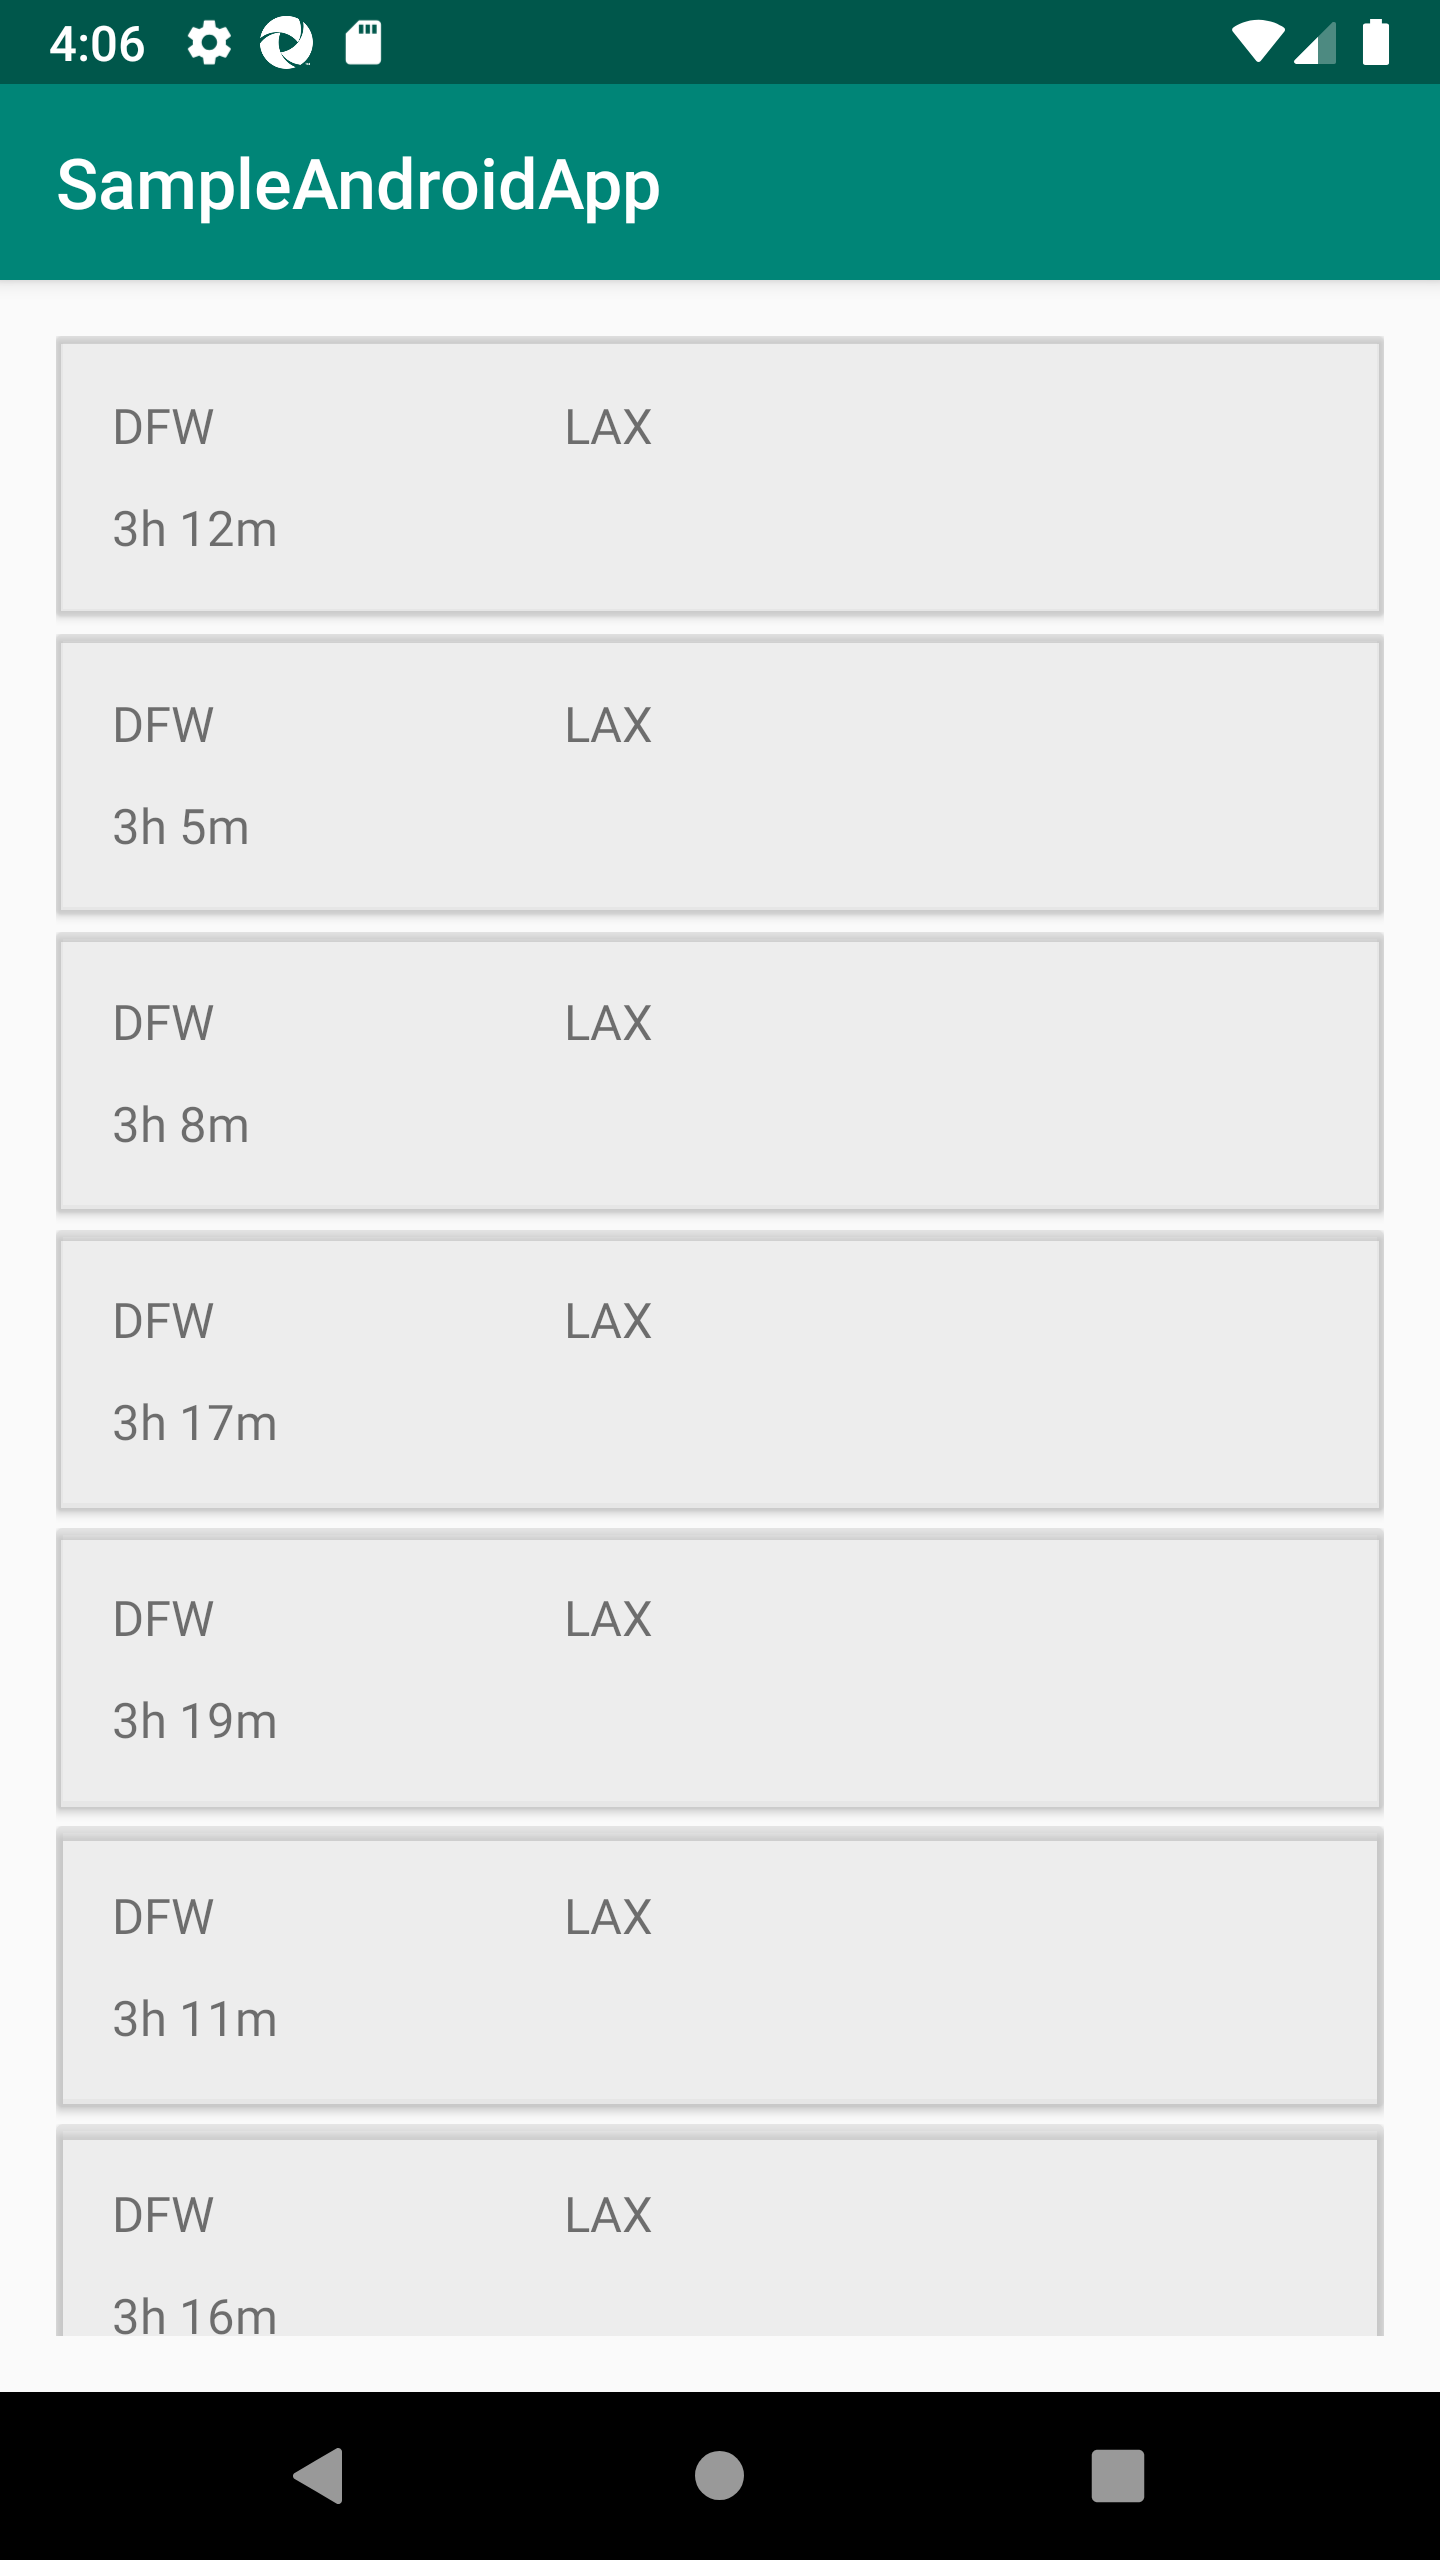
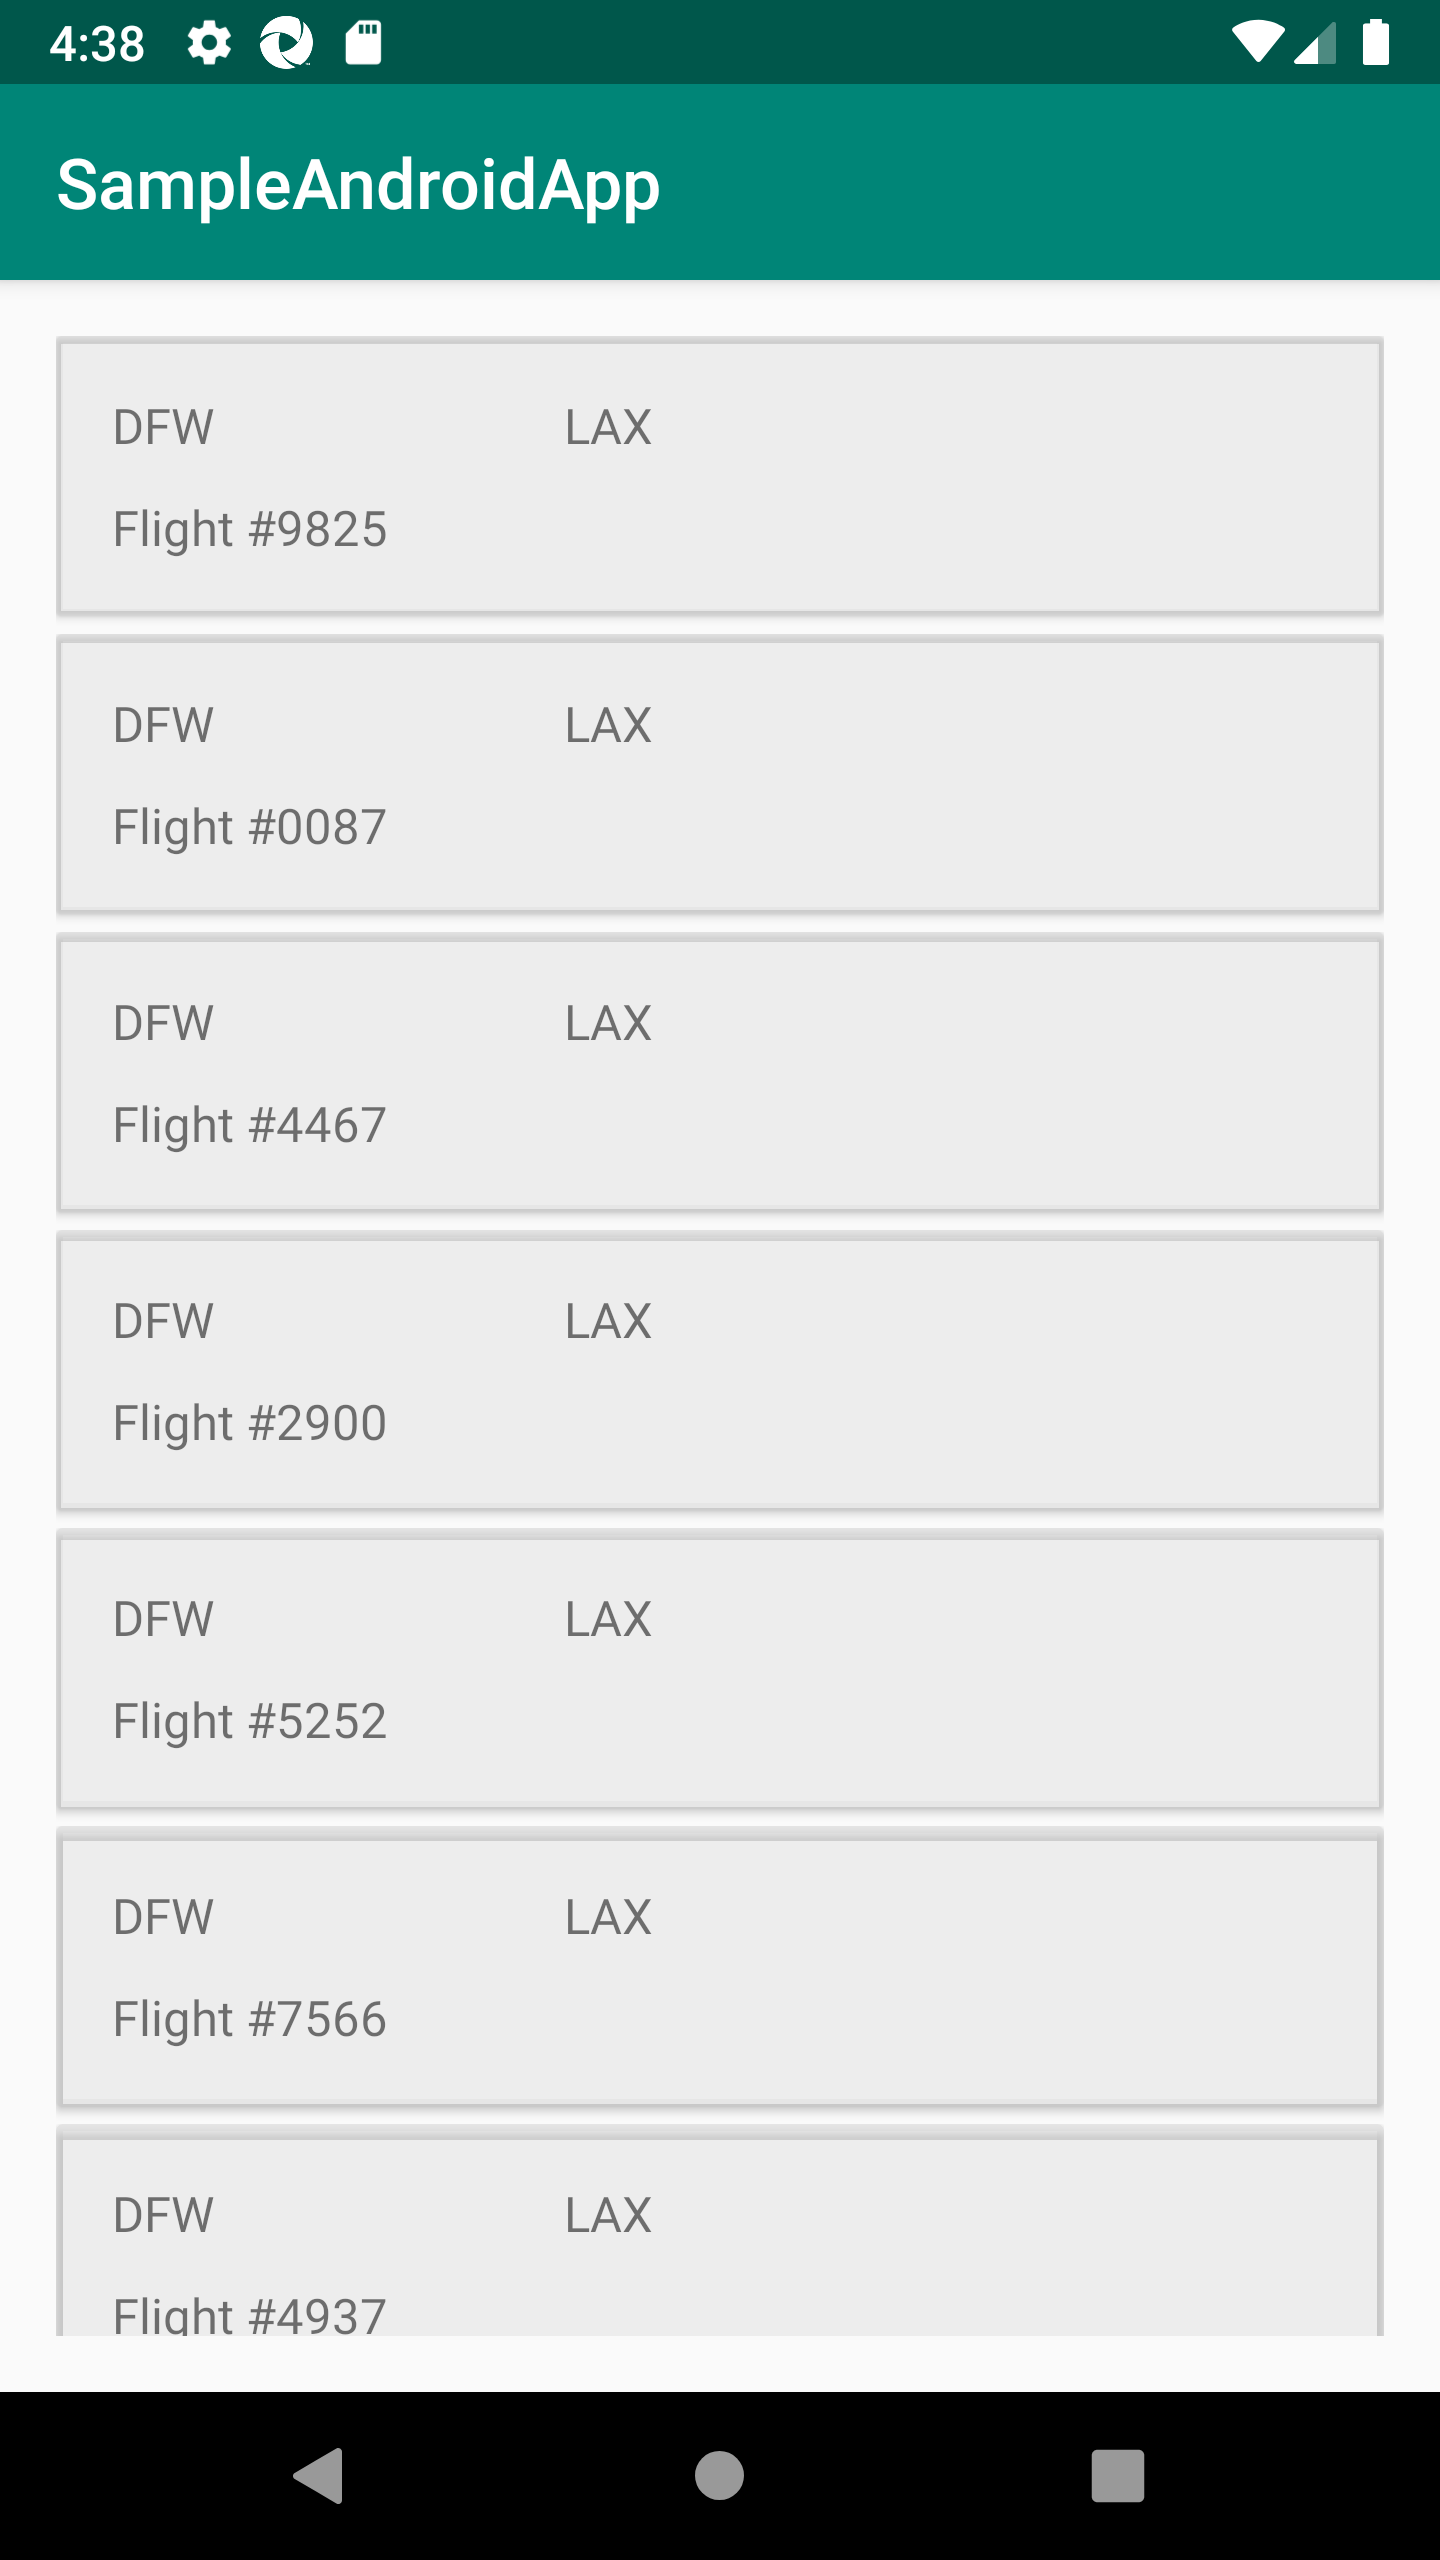
Android updates

diff --git a/flight-search-android/SampleAndroidApp/app/src/main/java/com/android/sampleandroidapp/FlightAdapter.java b/flight-search-android/SampleAndroidApp/app/src/main/java/com/android/sampleandroidapp/FlightAdapter.java
@@ -34,7 +34,7 @@ class FlightAdapter extends RecyclerView.Adapter<FlightAdapter.FlightViewHolder>
 
         holder.origin_tv.setText(flight.getOrigin().getCode());
         holder.destination_tv.setText(flight.getDestination().getCode());
-        holder.duration_tv.setText(flight.getDuration().getLocale());
+        holder.flight_number_tv.setText("Flight #" + flight.getFlightNumber());
     }
 
     @Override
@@ -46,14 +46,14 @@ class FlightAdapter extends RecyclerView.Adapter<FlightAdapter.FlightViewHolder>
 
         private TextView origin_tv;
         private TextView destination_tv;
-        private TextView duration_tv;
+        private TextView flight_number_tv;
 
         public FlightViewHolder(@NonNull View itemView) {
             super(itemView);
 
             origin_tv = itemView.findViewById(R.id.origin);
             destination_tv = itemView.findViewById(R.id.destination);
-            duration_tv = itemView.findViewById(R.id.duration);
+            flight_number_tv = itemView.findViewById(R.id.flight_number);
         }
     }
 }
